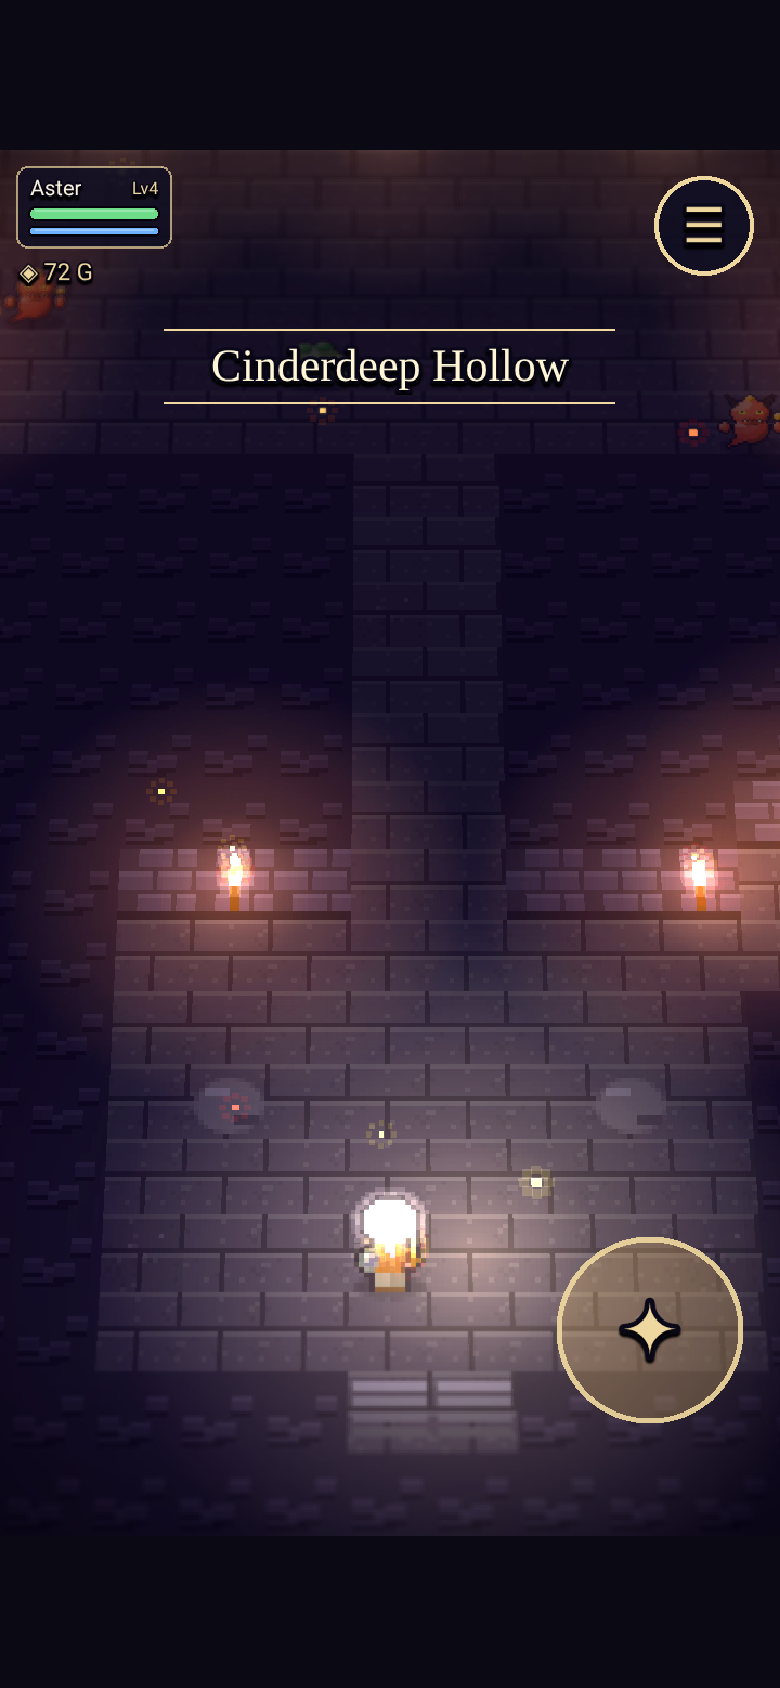
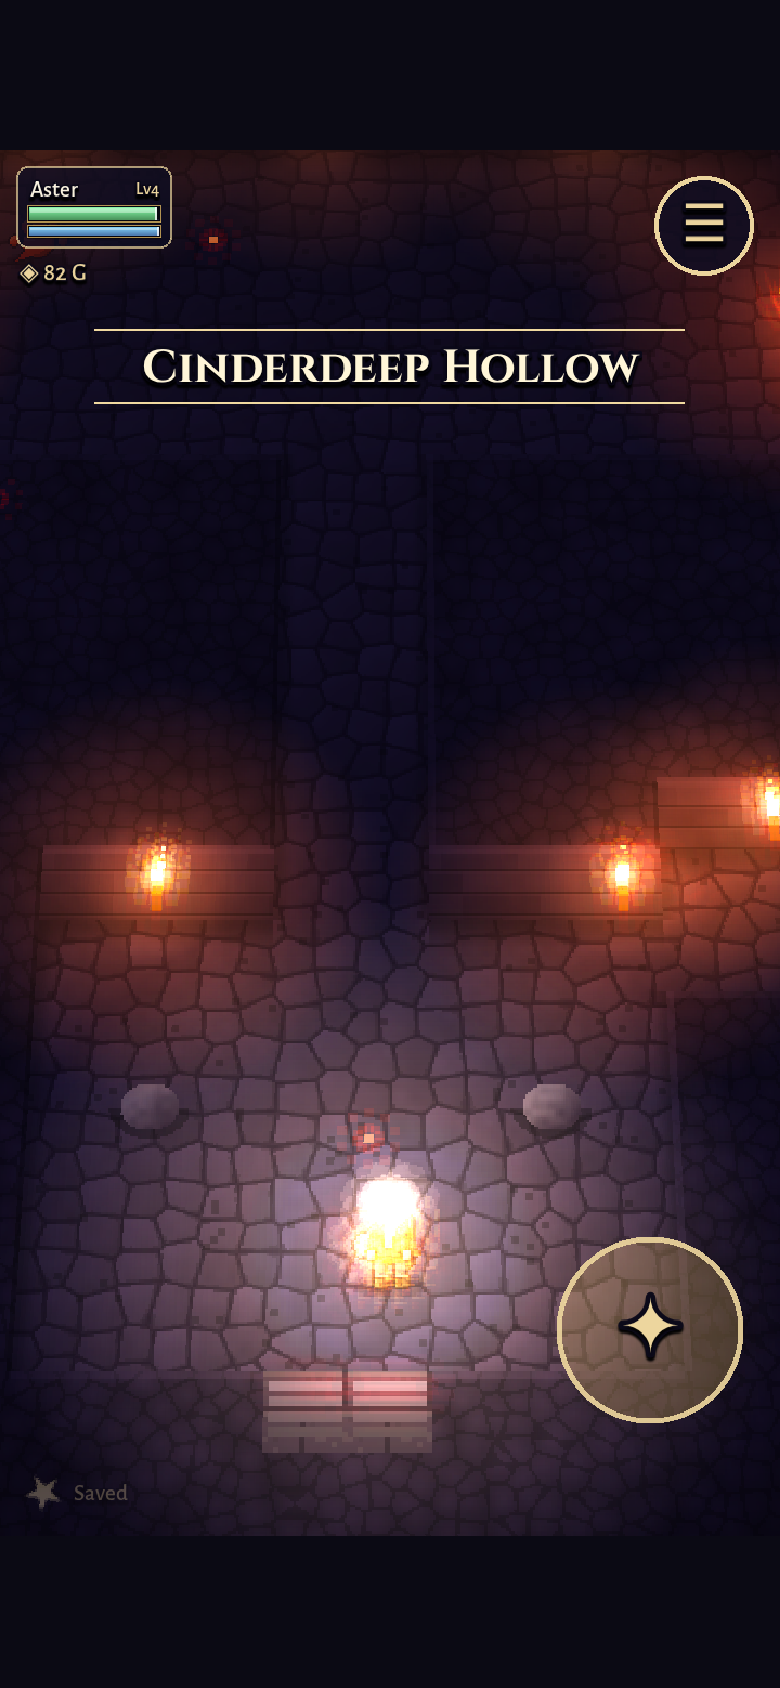
HD interiors: plank floors, ornate rugs, wainscoted back walls, cut-away wall tops, counters, chapel stone + stained glass, pews, altar; window light shafts

diff --git a/src/gfx/ground.ts b/src/gfx/ground.ts
@@ -8,7 +8,7 @@ import { hash, noise, fbm, clamp, smooth, rgb, mix, mul, cells, RGB } from './no
 
 export const HD = 2;            // texels per world pixel
 export const TT = 16 * HD;      // texels per tile
-export const enum Ter { NONE, GRASS, AGRASS, PATH, LEAF, SAND, COBBLE, PLAZA, DFLOOR, CAVE, WTOP, WFACE, CTOP, CFACE, CLIFF, WATER }
+export const enum Ter { NONE, GRASS, AGRASS, PATH, LEAF, SAND, COBBLE, PLAZA, DFLOOR, CAVE, WTOP, WFACE, CTOP, CFACE, CLIFF, WATER, WOOD, RUG, IWALL, COUNTER }
 const NATURAL = new Set<number>([Ter.GRASS, Ter.AGRASS, Ter.PATH, Ter.LEAF, Ter.SAND, Ter.WATER, Ter.CAVE]);
 export const TER: Record<string, number> = {
   '.': Ter.GRASS, ',': Ter.GRASS, '*': Ter.GRASS, '"': Ter.GRASS, 'C': Ter.GRASS,
@@ -17,6 +17,7 @@ export const TER: Record<string, number> = {
   'd': Ter.DFLOOR, 'e': Ter.DFLOOR, 'l': Ter.DFLOOR, 'a': Ter.DFLOOR, ';': Ter.CAVE,
   'm': Ter.WTOP, 'M': Ter.WFACE, 'I': Ter.CTOP, 'J': Ter.CFACE, 'c': Ter.CLIFF,
   '~': Ter.WATER, '4': Ter.WATER, '0': Ter.WATER,
+  '_': Ter.WOOD, 'g': Ter.RUG, '|': Ter.IWALL, 'k': Ter.COUNTER,
 };
 /** characters whose classic tile is fully replaced by the HD painter (ground + decal) */
 export const PAINTED_DECALS = new Set(['*', '"', 'C', '@', '&', 'l', 'a']);
@@ -65,9 +66,16 @@ export function paintGround(scene: Phaser.Scene, id: string, grid: string[], pro
   const ter: number[][] = []; const blank: boolean[][] = [];
   for (let y = 0; y < h; y++) { ter.push([]); blank.push([]); for (let x = 0; x < w; x++) {
     const ch = grid[y][x]; let t = TER[ch] || 0;
+    if (!outdoor && 'NQG-'.includes(ch)) t = Ter.IWALL;
+    if (!outdoor && ch === '!') t = Ter.PLAZA;
+    if (!outdoor && (ch === '?' || ch === '+')) t = Ter.COUNTER;
+    if (!outdoor && ch === 'D' && (grid[y - 1]?.[x] === '_' || grid[y - 1]?.[x] === 'g')) t = Ter.WOOD;
+    // props standing in the back-wall row (shelves, hearths, cupboards) sit on wall, not floor
+    const wl = (c?: string) => c === '|' || (!!c && propChars.has(c) && grid[y - 1]?.[x] === '|');
+    if (!t && propChars.has(ch) && grid[y - 1]?.[x] === '|' && wl(grid[y][x - 1]) && wl(grid[y][x + 1])) t = Ter.IWALL;
     if (!t && (STRUCT.has(ch) || propChars.has(ch))) t = deriveGround(grid, x, y, ch);
     ter[y].push(t);
-    blank[y].push(!!t && (!!TER[ch] || STRUCT.has(ch) || propChars.has(ch)));
+    blank[y].push(!!t && (!!TER[ch] || STRUCT.has(ch) || propChars.has(ch) || (!outdoor && 'NQG-!D?+'.includes(ch))));
   } }
   const key = 'hdg_' + id, waterKey = 'hdw_' + id;
   const res: GroundResult = { key, blank, ter, w, h };
@@ -76,6 +84,15 @@ export function paintGround(scene: Phaser.Scene, id: string, grid: string[], pro
   if (scene.textures.exists(key)) return res;
 
   const T = (x: number, y: number) => (x < 0 || y < 0 || x >= w || y >= h) ? Ter.NONE : ter[y][x];
+  // rug components -> bounding boxes in texels (for ornate borders)
+  const rugBox = new Map<number, [number, number, number, number]>();
+  for (let y = 0; y < h; y++) for (let x = 0; x < w; x++) { if (ter[y][x] !== Ter.RUG || rugBox.has(y * w + x)) continue;
+    const q = [[x, y]], cells2: number[] = []; let x0 = x, x1 = x, y0 = y, y1 = y; rugBox.set(y * w + x, [0, 0, 0, 0]);
+    while (q.length) { const [cx, cy] = q.pop()!; cells2.push(cy * w + cx); x0 = Math.min(x0, cx); x1 = Math.max(x1, cx); y0 = Math.min(y0, cy); y1 = Math.max(y1, cy);
+      for (const [dx, dy] of [[1, 0], [-1, 0], [0, 1], [0, -1]]) { const nx = cx + dx, ny = cy + dy; if (nx < 0 || ny < 0 || nx >= w || ny >= h || ter[ny][nx] !== Ter.RUG || rugBox.has(ny * w + nx)) continue; rugBox.set(ny * w + nx, [0, 0, 0, 0]); q.push([nx, ny]); } }
+    const bx: [number, number, number, number] = [x0 * TT + 3, y0 * TT + 3, (x1 + 1) * TT - 3, (y1 + 1) * TT - 3]; for (const c of cells2) rugBox.set(c, bx); }
+  const wallish = (x: number, y: number) => { const q = T(x, y); return q === Ter.IWALL || q === Ter.NONE; };
+  const floorish = (q: number) => q === Ter.WOOD || q === Ter.RUG || q === Ter.COUNTER || q === Ter.PLAZA;
   const CH = (x: number, y: number) => grid[Math.max(0, Math.min(h - 1, y))][Math.max(0, Math.min(w - 1, x))];
   const out = new Uint8ClampedArray(W * H * 4);
   const wat = anyWater ? new Uint8ClampedArray(W * H * 4) : null;
@@ -208,6 +225,105 @@ export function paintGround(scene: Phaser.Scene, id: string, grid: string[], pro
           const tb = T(gx, gy + 1); // darker toward the floor
           if (!cl) c = mul(c, 0.95 - 0.35 * (ly / TT) * (isFace(tb) ? 0 : 1));
           if (!cl && ly < 2) c = mix(c, cvf ? C.ct2 : C.wt2, 0.9);
+          break;
+        }
+        case Ter.WOOD: case Ter.RUG: {
+          // warm plank floor: staggered boards, stretched grain, dark seams, nail heads, soft sheen
+          const row = Math.floor(Y / 8), vy = Y - row * 8, off = hash(row, 5, 91) * 90, plen = 46 + Math.floor(hash(row, 6, 92) * 40);
+          const col = Math.floor((X + off) / plen), vx = X + off - col * plen;
+          const tone = hash(col, row, 93);
+          c = mix(rgb(0x6a3f22), rgb(0x9a6236), 0.25 + tone * 0.55);
+          const grain = noise(X * 0.035 + col * 7.3, Y * 0.9 + row * 3.1); c = mul(c, 0.9 + grain * 0.2);
+          if (noise(X * 0.012 + col, Y * 0.3) > 0.78) c = mul(c, 0.82);            // knots / dark streaks
+          if (vy === 0) c = mul(c, 0.5); else if (vy === 1) c = mix(c, rgb(0xd8a070), 0.18); else if (vy === 7) c = mul(c, 0.8);
+          if (vx === 0) c = mul(c, 0.55); else if ((vx === 3 || vx === plen - 3) && (vy === 3 || vy === 5)) c = rgb(0x3a2a20);
+          c = mix(c, rgb(0xffd8a0), clamp(noise(X * 0.01, Y * 0.01) - 0.55) * 0.25);
+          if (t === Ter.RUG) {
+            const bx = rugBox.get(gy * w + gx)!; const d = Math.min(X - bx[0], Y - bx[1], bx[2] - 1 - X, bx[3] - 1 - Y);
+            if (d >= 0) {
+              const cxr = (bx[0] + bx[2]) / 2, cyr = (bx[1] + bx[3]) / 2, rx = X - cxr, ry = Y - cyr;
+              if (d < 2) c = mix(rgb(0xe8d0a0), rgb(0xb89060), hash(X, Y >> 1, 94));                     // fringe
+              else if (d < 4) c = rgb(0x3a1418);
+              else if (d < 10) { c = mix(rgb(0xc8963a), rgb(0xe8c060), noise(X * 0.3, Y * 0.3) * 0.4); const pp = ((X + Y) >> 2) & 3; if ((d === 6 || d === 7) && pp === 0) c = rgb(0x2a3060); }
+              else if (d < 12) c = rgb(0x5a1418);
+              else { c = mix(rgb(0x8a2228), rgb(0xa8323a), noise(X * 0.2, Y * 0.2) * 0.5);
+                const lat = (Math.abs(rx) + Math.abs(ry)) % 12; if (lat < 1.2) c = rgb(0x2a3060); else if (lat < 2.2) c = rgb(0xc8963a);
+                const md = Math.abs(rx) * 0.9 + Math.abs(ry); if (md < 9) c = md < 4 ? rgb(0xf0c860) : md < 6 ? rgb(0x2a3060) : rgb(0xd8a848); }
+              if (hash(X, Y, 95) < 0.12) c = mul(c, 0.9);
+              if (d >= 2) c = mul(c, 0.96 + 0.08 * clamp(1 - (Y - bx[1]) / 120));
+            }
+          }
+          // contact shadow under the back wall, side walls and counters
+          if (wallish(gx, gy - 1)) c = mul(c, 0.45 + 0.55 * smooth(0, 18, ly));
+          if (wallish(gx - 1, gy)) c = mul(c, 0.6 + 0.4 * smooth(0, 10, lx));
+          if (wallish(gx + 1, gy)) c = mul(c, 0.6 + 0.4 * smooth(0, 10, TT - lx));
+          if (T(gx, gy - 1) === Ter.COUNTER) c = mul(c, 0.6 + 0.4 * smooth(0, 10, ly));
+          if (!outdoor && ch === 'D') { // woven doormat + daylight spilling in
+            const mx = Math.abs(lx - TT / 2), my = Math.abs(ly - TT / 2);
+            if (mx < 13 && my < 9) { c = mix(rgb(0x8a6a3a), rgb(0xb89a5a), ((lx >> 1) + (ly >> 1)) & 1 ? 0.7 : 0.2); if (mx > 11 || my > 7) c = rgb(0x5a3a1a); }
+            c = mix(c, rgb(0xfff0c8), 0.18 * smooth(0, TT, ly));
+          }
+          break;
+        }
+        case Ter.IWALL: {
+          const below = T(gx, gy + 1), below2 = T(gx, gy + 2);
+          const faceLo = floorish(below), faceHi = !faceLo && below === Ter.IWALL && floorish(below2);
+          if (faceLo || faceHi) {
+            const fy = (faceHi ? 0 : TT) + ly, FH2 = TT * 2;               // 0 = top of the two-tile wall face
+            const lowCh = faceLo ? ch : CH(gx, gy + 1), stoneW = 'NQG-'.includes(ch) || 'NQG-'.includes(lowCh);
+            if (stoneW) {
+              const row = Math.floor(Y / 9), off = (row % 2) * 9, colb = Math.floor((X + off) / 18), vx = (X + off) % 18, vy = Y % 9;
+              c = mix(rgb(0x6a6458), rgb(0x9a9284), 0.3 + hash(colb, row, 97) * 0.5 + (noise(X * 0.2, Y * 0.2) - 0.5) * 0.2);
+              if (vy === 0 || vx === 0) c = rgb(0x3e3a34); else if (vy === 1) c = mix(c, rgb(0xd8d0c0), 0.3);
+              c = mul(c, 0.7 + 0.3 * fy / FH2);
+              if (fy > FH2 - 6) c = fy === FH2 - 6 ? rgb(0xb8b0a0) : rgb(0x3e3a34);
+              if (lowCh === '-') { const wx = lx - TT / 2 + 0.5, top = 12, bot = FH2 - 10, inW = Math.abs(wx) < 9 && fy < bot && (fy > top + 9 || Math.hypot(wx, fy - top - 9) < 9);
+                const frame = !inW && Math.abs(wx) < 12 && fy < bot + 3 && (fy > top + 9 || Math.hypot(wx, fy - top - 9) < 12);
+                if (frame) c = rgb(0xc8c0b0);
+                if (inW) { const seg = (Math.floor((wx + 9) / 4.5) + Math.floor(fy / 7)) % 5; c = [rgb(0xe04a5a), rgb(0x4a8ae0), rgb(0xf0c040), rgb(0x50c080), rgb(0xb070e0)][seg]; c = mix(c, rgb(0xfff4d0), 0.25 * clamp(1 - fy / FH2));
+                  if ((wx + 9) % 4.5 < 1 || fy % 7 === 0) c = rgb(0x2a2030); } }
+            } else
+            if (fy < 6) { c = mix(rgb(0x3a2416), rgb(0x5a3a22), noise(X * 0.4, Y * 0.2)); if (fy === 4) c = rgb(0x8a6040); if (fy === 5) c = rgb(0x24160e); }
+            else if (fy < 36) {
+              c = mix(rgb(0xb59c76), rgb(0xcbb48a), noise(X * 0.06, Y * 0.06) * 0.7); c = mul(c, 0.78 + 0.22 * (fy - 6) / 30);
+              if (hash(X >> 1, Y >> 1, 96) < 0.04) c = mul(c, 0.92);
+              const pc = X % 64; if (pc < 5) { c = mix(rgb(0x4a2c18), rgb(0x6a4228), noise(X * 0.5, Y * 0.08)); if (pc === 0) c = rgb(0x24160e); if (pc === 1) c = mix(c, rgb(0xa07850), 0.4); }
+            } else if (fy < 39) { c = fy === 36 ? rgb(0x9a7048) : fy === 38 ? rgb(0x24160e) : rgb(0x6a4428); }
+            else if (fy < FH2 - 5) {
+              const pw = 24, pc2 = X % pw, py = fy - 39, ph = FH2 - 5 - 39;
+              c = mix(rgb(0x4a2c18), rgb(0x5e3a20), noise(X * 0.05 + 3, Y * 0.8) * 0.8);
+              if (pc2 < 2 || py < 2 || py > ph - 3 || pc2 > pw - 3) c = mul(c, pc2 < 1 || py < 1 ? 1.35 : 0.7); // raised panel bevel
+            } else { c = fy === FH2 - 5 ? rgb(0x8a6040) : rgb(0x2a1a10); }
+            if (wallish(gx - 1, gy) && !floorish(T(gx - 1, gy))) c = mul(c, 0.62 + 0.38 * smooth(0, 12, lx)); // corner occlusion
+            if (wallish(gx + 1, gy) && !floorish(T(gx + 1, gy))) c = mul(c, 0.62 + 0.38 * smooth(0, 12, TT - lx));
+          } else {
+            // cut-away wall top: dark beam with a warm lit rim where it meets the room
+            c = mix(rgb(0x1c120e), rgb(0x2c1c14), noise(X * 0.08, Y * 0.5) * 0.8);
+            const fl = (dx: number, dy: number) => { const q = T(gx + dx, gy + dy); return floorish(q) || (q === Ter.IWALL && floorish(T(gx + dx, gy + dy + 1))); };
+            if (fl(0, 1) && ly > TT - 4) c = ly === TT - 1 ? rgb(0x24160e) : rgb(0x8a6040);
+            if (fl(1, 0) && lx > TT - 4) c = lx === TT - 1 ? rgb(0x24160e) : rgb(0x7a5436);
+            if (fl(-1, 0) && lx < 3) c = lx === 0 ? rgb(0x24160e) : rgb(0x7a5436);
+            if (fl(0, -1) && ly < 3) c = ly === 0 ? rgb(0x9a7048) : rgb(0x6a4428);
+          }
+          break;
+        }
+        case Ter.COUNTER: {
+          const front = !(T(gx, gy + 1) === Ter.COUNTER);
+          const topEnd = front ? 20 : TT;
+          if (ly < topEnd) {
+            c = mix(rgb(0x8a5a32), rgb(0xb07a44), noise(X * 0.03, Y * 0.6 + gx * 9) * 0.7);
+            if ((Y >> 3) % 2 === 0 && (Y & 7) === 0) c = mul(c, 0.7);
+            c = mix(c, rgb(0xffe0b0), clamp(noise(X * 0.02, Y * 0.02) - 0.5) * 0.4);
+            if (T(gx - 1, gy) !== Ter.COUNTER && lx < 3) c = mix(c, rgb(0xe8b880), 0.4);
+            if (T(gx + 1, gy) !== Ter.COUNTER && lx > TT - 3) c = mul(c, 0.6);
+            if (T(gx, gy - 1) !== Ter.COUNTER && ly < 2) c = mix(c, rgb(0xe8b880), 0.5);
+            if (front && ly >= topEnd - 2) c = ly === topEnd - 1 ? rgb(0x2a1a10) : rgb(0xd8a068);
+            if (ch === '+') { c = mix(rgb(0xe8e0d0), rgb(0xfff8ec), noise(X * 0.1, Y * 0.3) * 0.6); if (ly < 3 || ly > topEnd - 4) c = rgb(0xd8a840); if (Math.abs(lx - TT / 2) < 2 && ly > 5 && ly < 16 || Math.abs(ly - 9) < 2 && Math.abs(lx - TT / 2) < 6) c = rgb(0xf0c040); }
+          } else {
+            c = mix(rgb(0x4a2a16), rgb(0x60381e), noise(X * 0.06, Y * 0.5) * 0.8); if (X % 10 === 0) c = mul(c, 0.6); if (ly === TT - 1) c = rgb(0x1a100a);
+            if (ch === '+') { c = mix(rgb(0xb02a3a), rgb(0xd0404a), noise(X * 0.2, Y * 0.5) * 0.5); if (ly > TT - 4) c = rgb(0xd8a840); }
+            c = mul(c, 0.85 + 0.15 * (TT - ly) / 12);
+          }
           break;
         }
         case Ter.WATER: { c = C.mud; break; }

diff --git a/src/scenes/WorldScene.ts b/src/scenes/WorldScene.ts
@@ -113,7 +113,7 @@ export class WorldScene extends Phaser.Scene {
         if (DioramaFX.quality > 0 && this.game.renderer instanceof Phaser.Renderer.WebGL.WebGLRenderer) { this.water.setPostPipeline(WaterFX); const wf = this.water.getPostPipeline(WaterFX) as any; const n = this.isNight() || !this.def.outdoor; if (wf) { wf.night = n ? 1 : 0; wf.sky = n ? 0x203060 : 0xd8ecff; } }
       }
       this.hdStruct = true;
-      const st = buildStructures(this, this.def.id, this.grid, this.isNight(), g.key, !!g.fresh);
+      const st = buildStructures(this, this.def.id, this.grid, this.isNight(), g.key, !!g.fresh, !this.def.outdoor);
       for (const hs of st.houses) {
         this.add.image(hs.x0 * TS - OH / HD, (hs.y1 + 1) * TS, hs.key).setOrigin(0, 1).setScale(1 / HD).setDepth(10 + (hs.y1 + 1) * TS - 1);
         if (hs.chimney) this.add.particles(hs.x0 * TS - OH / HD + hs.chimney[0] / HD, (hs.y1 + 1) * TS - this.textures.get(hs.key).source[0].height / HD + 1, 'light', { lifespan: 3600, speedY: { min: -9, max: -5 }, speedX: { min: 2, max: 6 }, scale: { start: 0.03, end: 0.16 }, alpha: { start: 0.35, end: 0 }, tint: this.isNight() ? 0x8890b0 : 0xe8e4f0, frequency: 260 }).setDepth(7100);
@@ -276,6 +276,13 @@ export class WorldScene extends Phaser.Scene {
         lights.push({ x, y, c: 0xff8a3a, r: 2.6 });
       }
     }
+    // interiors: stained-glass / hearth glow + slanted light shafts falling through the windows
+    if (!this.def.outdoor) { const noL = !(this.def.lights || []).length; let k = 0;
+      for (let y = 0; y < this.grid.length - 1; y++) for (let x = 0; x < this.grid[0].length; x++) { const c = this.grid[y][x];
+        if (c === '-') { lights.push({ x, y: y + 1, c: [0xffc0a0, 0xa0c0ff, 0xffe0a0, 0xd0a0ff][k++ % 4], r: 2.4 });
+          const sh = this.add.image(x * TS + 8, y * TS + 6, 'light').setOrigin(0.5, 0).setTint(0xfff0d0).setBlendMode(Phaser.BlendModes.ADD).setScale(0.13, 1.5).setRotation(0.32).setAlpha(0.16).setDepth(8002);
+          this.tweens.add({ targets: sh, alpha: 0.07, yoyo: true, repeat: -1, duration: 3000 + k * 700, ease: 'Sine.inOut' }); }
+        if (c === 'H' && noL) lights.push({ x, y: y + 1, c: 0xff9a40, r: 3.2 }); } }
     // glowing coral lights itself (sea caves)
     { let k = 0; for (let y = 0; y < this.grid.length; y++) for (let x = 0; x < this.grid[0].length; x++) if (this.grid[y][x] === 'j' && (k++ % 2) === 0) lights.push({ x, y, c: k % 4 ? 0x50f0d0 : 0xff80c0, r: 2.2 }); }
     for (const [X, Y] of this.nightWindows) {

diff --git a/src/gfx/structures.ts b/src/gfx/structures.ts
@@ -207,10 +207,10 @@ export function ensureTreeAtlas(scene: Phaser.Scene) {
 }
 
 /** Build all HD structures for a map. `ground` is the HD ground canvas (shadows are baked into it when fresh). */
-export function buildStructures(scene: Phaser.Scene, id: string, grid: string[], night: boolean, groundKey: string, fresh: boolean): StructResult {
+export function buildStructures(scene: Phaser.Scene, id: string, grid: string[], night: boolean, groundKey: string, fresh: boolean, indoor = false): StructResult {
   ensureTreeAtlas(scene);
   const houses: HouseInfo[] = []; const trees: StructResult['trees'] = [];
-  for (const hx of findHouses(grid)) {
+  for (const hx of indoor ? [] : findHouses(grid)) {
     const key = `hdh_${id}_${hx.x0}_${hx.y0}_${night ? 'n' : 'd'}`;
     let info: Omit<HouseInfo, 'key' | 'x0' | 'y0' | 'x1' | 'y1'>;
     const cacheKey = key + '_meta'; const cached = (scene.registry.get(cacheKey) as any);

diff --git a/GFX_PROGRESS.md b/GFX_PROGRESS.md
@@ -30,8 +30,12 @@ Regression tests: run against a *built* copy so Vite HMR reloads don't break the
 - [x] Battle hit flash = brief additive silhouette (110ms, 42%) instead of solid tintFill (was a white blob under bloom).
 - [x] Diorama depth: projective ground-plane tilt in DioramaFX (k=0.6 outdoor), camera zoom 4 -> 4.6 (`ZOOM`), raised plaza with stone curb faces + cast shadow, taller house walls (+WALLX) and roofs, front cross-gables with round windows, foreground blurred foliage silhouettes at screen edges with parallax.
 
+- [x] Interiors (ground.ts Ter.WOOD/RUG/IWALL/COUNTER): staggered plank floors with grain + contact shadows, ornate bordered rugs with medallions, 2-tile back walls (crown beam, plaster + timber posts, wainscot panels, baseboard), dark cut-away wall tops with lit rims, wooden counters, woven doormats; chapel: stone walls with stained-glass arches, slab floor, wooden pews, clothed altar; window light shafts + hearth glow; no fake 'house' structure indoors.
+  Shots: progress/r3-17-int-*, r3-21-int-chapel. Tool: `MAPS=map:x:y,... node tests/tools/r3int.mjs <prefix>`.
+
 ## Next
-- [ ] Interiors pass; HD bridge/sign/lantern polish if needed.
+- [ ] Full regression run on the built test server, fix regressions.
+- [ ] Final critical polish pass (characters, monsters, title).
 - [ ] APK + release v0.3.0.
 
 ## Scope update (user, 11:16)
